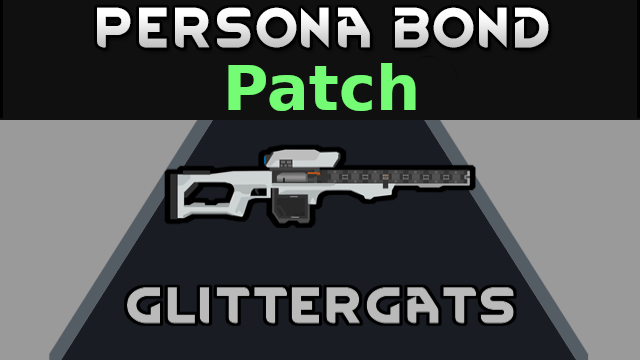
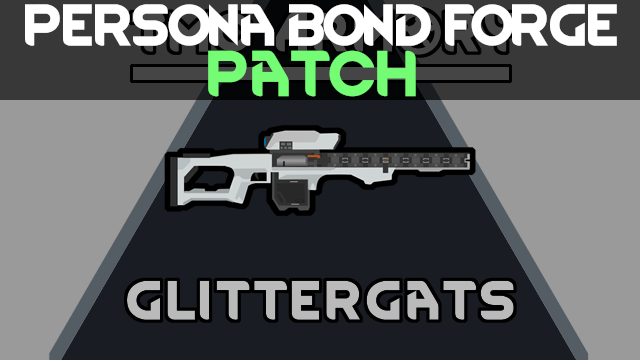
Update Preview.png and README.md

diff --git a/README.md b/README.md
@@ -2,6 +2,14 @@
 
 ![](https://github.com/Daria40K/Persona-Bond-Patch-for-GlitterGats/blob/main/About/Preview.png)
 
+## Required Mods
+- [Persona Bond Forge](https://steamcommunity.com/workshop/filedetails/?id=2178003816) (Steam)
+- [[TMC] GlitterGats](https://steamcommunity.com/sharedfiles/filedetails/?id=2519161105) (Steam)
+
+## Download
+- [Steam](https://steamcommunity.com/sharedfiles/filedetails/?id=2759155372)
+- [GitHub](https://github.com/Daria40K/Persona-Bond-Patch-for-GlitterGats/releases)
+
 ## Weapons Patch
 - Third Law Revolver
 - Slipstream DMR
